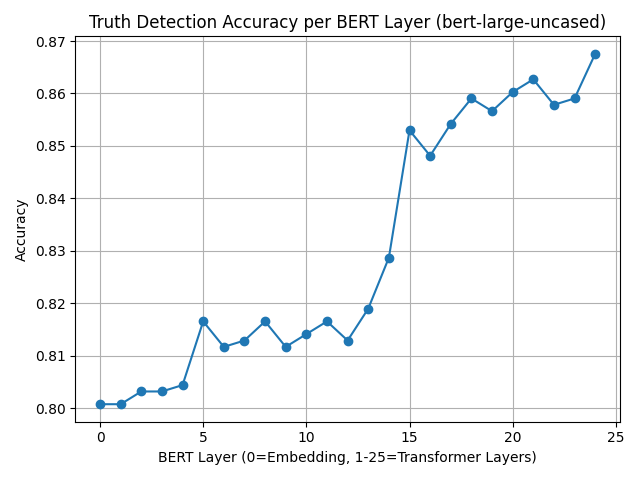
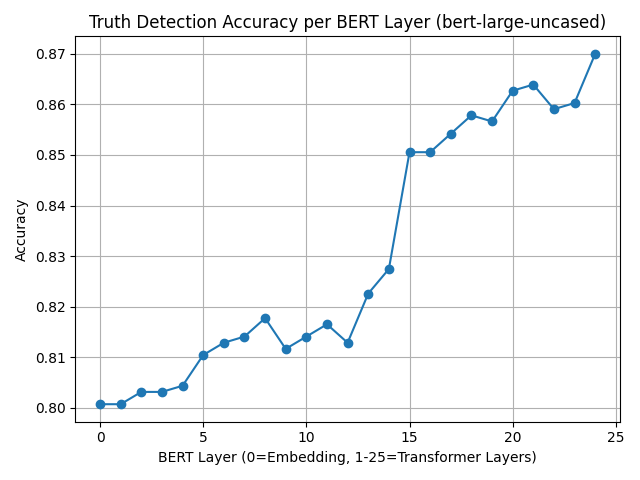
Adds initial controls

diff --git a/20250422 Toy Model/main.py b/20250422 Toy Model/main.py
@@ -28,6 +28,8 @@ dataset_source = "truthfulqa"  # 'truthfulqa' or 'boolq' or 'both'
 # ✅ Model config
 bert_model_name = "bert-large-uncased"  # or "bert-base-uncased"
 
+use_control_tasks = True
+
 # --------------------
 # ✅ Device setup (MPS on Mac)
 # --------------------
@@ -171,8 +173,10 @@ def train_probe(features, labels, epochs=100, lr=1e-2):
 print("🚀 Training linear probes on TRAIN and evaluating on TEST...")
 probes = []
 accuracies = []
+control_accuracies = []
+selectivities = []
 
-for layer in range(model.config.num_hidden_layers + 1):  # 25 for BERT-large
+for layer in range(model.config.num_hidden_layers + 1):
     train_feats = train_hidden_states[:, layer, :]
     test_feats = test_hidden_states[:, layer, :]
     train_lbls = train_labels
@@ -180,15 +184,29 @@ for layer in range(model.config.num_hidden_layers + 1):  # 25 for BERT-large
 
     print(f"\n🧪 Training probe on layer {layer}...")
     probe, loss = train_probe(train_feats, train_lbls)
-    print(f"    ↳ Final train loss: {loss:.4f}")
+    probes.append(probe)
 
     with torch.no_grad():
         preds = (probe(test_feats) > 0.5).long()
         acc = (preds == test_lbls).float().mean().item()
         accuracies.append(acc)
-        probes.append(probe)
+    print(f"    ✅ Test accuracy: {acc:.3f}")
 
-    print(f"    ✅ Test accuracy on layer {layer}: {acc:.3f}")
+    # 🎲 Control task: shuffle train labels
+    if use_control_tasks:
+        shuffled_labels = train_lbls[torch.randperm(train_lbls.size(0))]
+        ctrl_probe, _ = train_probe(train_feats, shuffled_labels)
+
+        with torch.no_grad():
+            ctrl_preds = (ctrl_probe(test_feats) > 0.5).long()
+            ctrl_acc = (ctrl_preds == test_lbls).float().mean().item()
+            control_accuracies.append(ctrl_acc)
+
+            selectivity = acc - ctrl_acc
+            selectivities.append(selectivity)
+
+        print(f"    🎲 Control accuracy: {ctrl_acc:.3f}")
+        print(f"    📊 Selectivity: {selectivity:.3f}")
 
 # --------------------
 # ✅ Plot Accuracy vs. BERT Layer
@@ -204,6 +222,19 @@ plt.tight_layout()
 plt.savefig("output.png")  # 💾 Save the plot
 plt.show()
 print("✅ Plot saved as output.png")
+
+if use_control_tasks:
+    plt.figure(figsize=(8, 5))
+    plt.plot(range(len(selectivities)), selectivities,
+             marker='o', label="Selectivity")
+    plt.title(f"Selectivity per BERT Layer ({model.config.name_or_path})")
+    plt.xlabel("Layer")
+    plt.ylabel("Selectivity = Real Acc - Control Acc")
+    plt.grid(True)
+    plt.tight_layout()
+    plt.savefig("selectivity_by_layer.png")
+    plt.show()
+    print("✅ Saved selectivity_by_layer.png")
 
 
 # # --------------------
